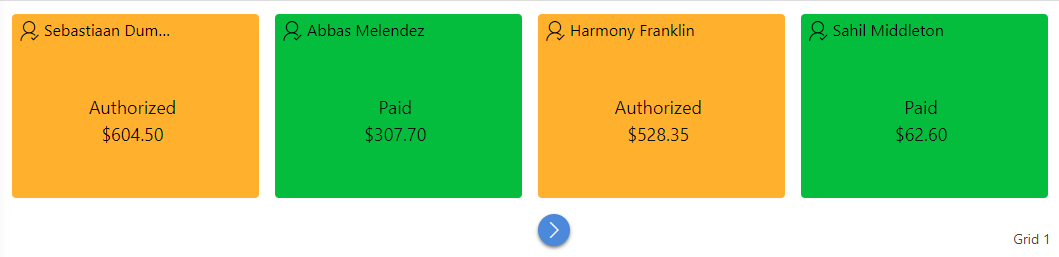
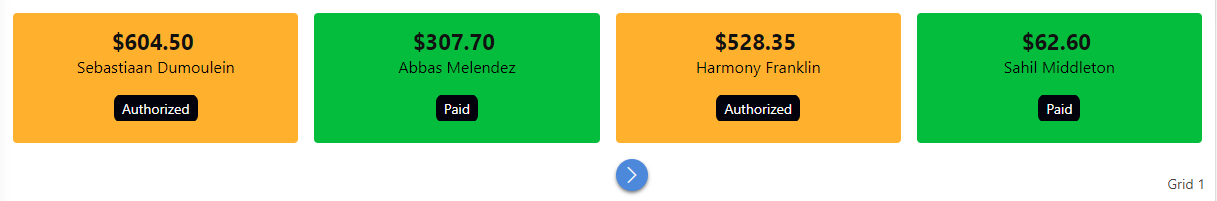
Resolved review comments

diff --git a/user-guide/Advanced_Modules/Dashboards_and_Low_Code_Apps/Low_Code_Apps/Tutorials/Tutorial_Apps_Grid.md b/user-guide/Advanced_Modules/Dashboards_and_Low_Code_Apps/Low_Code_Apps/Tutorials/Tutorial_Apps_Grid.md
@@ -16,29 +16,31 @@ Expected duration: 5 minutes.
 
 ## Prerequisites
 
-- DataMiner 10.4.1/10.5.0 or higher.
+- A DataMiner System using DataMiner 10.4.1 or higher.
 - The [Style a table](xref:Tutorial_Apps_Style_A_Table) tutorial has been completed.
 
 ## Overview
 
-- [Step 1: Configure the query](#step-1-configure-the-query)
+- [Step 1: Create a query](#step-1-create-a-query)
 
 - [Step 2: Add a grid component](#step-2-add-a-grid-component)
 
-- [Step 3: Style the blocks](#step-3-style-the-blocks)
+- [Step 3: Style the grid blocks](#step-3-style-the-blocks)
 
 - [Step 4: Tweak the grid layout](#step-4-tweak-the-grid-layout)
 
-## Step 1: Configure the query
+## Step 1: Create a query
 
 You can now create the query using the *Orders.json* file as the data source.
 
 > [!NOTE]
-> The *Orders.json* file should have been created while following the [Style a table](xref:Tutorial_Apps_Style_A_Table) tutorial.
+> The *Orders.json* file should have been created while following the [Style a table](xref:Tutorial_Apps_Style_A_Table#step-1-configure-the-query) tutorial.
 
 1. Create a new low-code app. See [Creating low-code applications](xref:Creating_custom_apps).
 
-1. In the data pane, select *Queries* and click the + icon to add a new query.
+1. Select *Queries* in the data pane.
+
+1. Click the + icon to add a new query.
 
 1. Provide the necessary information:
 
@@ -58,22 +60,22 @@ You can now create the query using the *Orders.json* file as the data source.
 
 1. Hover the mouse pointer over the component and click the ![Visualizations](~/user-guide/images/DashboardsX_visualizations00095.png) icon.
 
-1. Choose the [grid](xref:DashboardGrid) visualization. The grid will be populated with a block for each order in the orders dataset.
+1. Choose the [grid](xref:DashboardGrid) visualization. The grid will be populated with a block for every order in the orders dataset.
 
-   ![Default unstyled grid](~/user-guide/images/DefaultGrid.png)
+   ![Default grid](~/user-guide/images/DefaultGrid.png)
 
 ## Step 3: Style the blocks
 
-The default grid blocks look quite boring and do not provide a lot of information, let's change that!
+The default grid blocks look quite basic and do not provide a lot of information, let's change that!
 
 > [!NOTE]
-> Learn more about the Template editor: [Using the Template Editor](xref:Template_Editor)
+> Learn more about the Template Editor: [Using the Template Editor](xref:Template_Editor)
 
 1. Make sure the grid component is selected, and navigate to *Layout > Item templates*.
 
-1. Click *Edit* to open the Template editor.
+1. Click *Edit* to open the Template Editor.
 
-1. After some styling our grid looks something like this.
+1. Use the Template Editor to apply some styles to the grid blocks.
 
    ![Styled grid](~/user-guide/images/StyledGrid.png) 
 
@@ -83,14 +85,14 @@ Let's change the way the blocks are positioned. We would like to show one row of
 
 1. Make sure the grid component is selected, and navigate to *Layout > Advanced*.
 
-1. Under *Grid template* the way the grid blocks are positioned can be changed.
+1. Locate the *Grid template* section. There you can change the way the grid blocks are positioned.
 
-1. Let's set the amount of columns to 4 and make sure *Scaling* is applied.
+1. Set the number of columns to 4 and ensure that *Scaling* is applied.
 
-1. The same can be done for the rows, let's go for 1 row and *Scaling*.
+1. Similarly, for the rows, opt for 1 row and apply *Scaling*.
 
     ![Grid settings](~/user-guide/images/GridSettings.png)
 
-1. Applying these settings will make sure our grid has 4 columns, 1 row and a button to navigate to the next items.  
+Applying these settings will make sure our grid has 4 columns, 1 row and a button to navigate to the next items.
 
-    ![Grid settings](~/user-guide/images/FinishedGrid.png)
+![Finished grid](~/user-guide/images/FinishedGrid.png)
